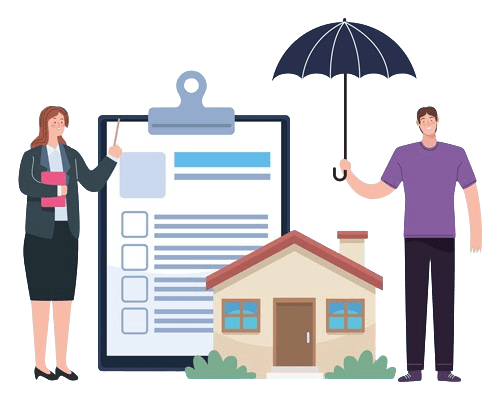
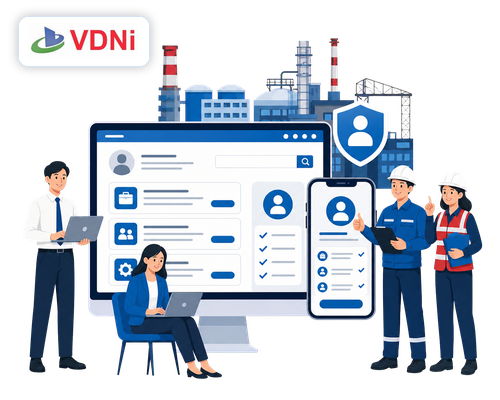
test: ganti header & carousel

diff --git a/public/user/css/style.css b/public/user/css/style.css
@@ -360,6 +360,67 @@
 .bg-breadcrumb .breadcrumb .breadcrumb-item a {
     color: var(--bs-white);
 }
+
+.page-hero-banner,
+.help-page-banner {
+    position: relative;
+    overflow: hidden;
+}
+
+.page-hero-banner::before,
+.help-page-banner::before {
+    content: "";
+    position: absolute;
+    inset: 0;
+    background:
+        radial-gradient(circle at top left, rgba(255, 255, 255, 0.12), transparent 32%),
+        linear-gradient(135deg, rgba(7, 45, 75, 0.2), rgba(11, 118, 183, 0.06));
+    pointer-events: none;
+}
+
+.page-hero,
+.help-page-hero {
+    position: relative;
+    z-index: 1;
+    max-width: 860px;
+}
+
+.page-hero__eyebrow,
+.help-page-hero__eyebrow {
+    display: inline-flex;
+    align-items: center;
+    gap: 0.55rem;
+    padding: 0.55rem 0.95rem;
+    border: 1px solid rgba(255, 255, 255, 0.22);
+    border-radius: 999px;
+    background: rgba(255, 255, 255, 0.12);
+    color: #fff;
+    font-size: 0.8rem;
+    font-weight: 700;
+    letter-spacing: 0.08em;
+    text-transform: uppercase;
+}
+
+.page-hero__text,
+.help-page-hero__text {
+    max-width: 62ch;
+    margin: 0 auto;
+    color: rgba(255, 255, 255, 0.88);
+    font-size: 1rem;
+    line-height: 1.8;
+}
+
+@media (max-width: 767.98px) {
+    .page-hero__eyebrow,
+    .help-page-hero__eyebrow {
+        font-size: 0.72rem;
+    }
+
+    .page-hero__text,
+    .help-page-hero__text {
+        font-size: 0.94rem;
+    }
+}
 /*** Single Page Hero Header End ***/
 
 

diff --git a/resources/views/user/lowongan-kerja/index.blade.php b/resources/views/user/lowongan-kerja/index.blade.php
@@ -7,9 +7,16 @@
 @endpush
 
 <!-- Header Start -->
-<div class="container-fluid bg-breadcrumb">
-    <div class="container text-center py-5" style="max-width: 900px;">
-        <h4 class="text-white display-4 mb-4 wow fadeInDown" data-wow-delay="0.1s">Lowongan Kerja</h4>
+<div class="container-fluid bg-breadcrumb page-hero-banner">
+    <div class="container page-hero text-center py-5">
+        <span class="page-hero__eyebrow wow fadeInDown" data-wow-delay="0.1s">
+            <i class="fas fa-briefcase"></i>
+            Lowongan Kerja
+        </span>
+        <h1 class="text-white display-4 mb-3 wow fadeInDown" data-wow-delay="0.2s">Temukan peluang karier resmi bersama PT VDNI</h1>
+        <p class="page-hero__text wow fadeInUp" data-wow-delay="0.3s">
+            Lihat posisi yang tersedia, perhatikan periode pendaftaran, dan ajukan lamaran hanya melalui sistem rekrutmen V-HIRE.
+        </p>
     </div>
 </div>
 <!-- Header End -->

diff --git a/resources/views/user/pengumuman/index.blade.php b/resources/views/user/pengumuman/index.blade.php
@@ -3,9 +3,16 @@
 @section('content')
 <!-- Carousel Start -->
 <!-- Header Start -->
-<div class="container-fluid bg-breadcrumb">
-    <div class="container text-center py-5" style="max-width: 900px;">
-        <h4 class="text-white display-4 mb-4 wow fadeInDown" data-wow-delay="0.1s">Pengumuman</h4>
+<div class="container-fluid bg-breadcrumb page-hero-banner">
+    <div class="container page-hero text-center py-5">
+        <span class="page-hero__eyebrow wow fadeInDown" data-wow-delay="0.1s">
+            <i class="fas fa-bullhorn"></i>
+            Pengumuman
+        </span>
+        <h1 class="text-white display-4 mb-3 wow fadeInDown" data-wow-delay="0.2s">Informasi resmi rekrutmen V-HIRE</h1>
+        <p class="page-hero__text wow fadeInUp" data-wow-delay="0.3s">
+            Pantau pembaruan lowongan, informasi seleksi, dan pengumuman penting langsung dari kanal resmi PT VDNI.
+        </p>
     </div>
 </div>
 <!-- Header End -->

diff --git a/resources/views/beranda.blade.php b/resources/views/beranda.blade.php
@@ -375,13 +375,13 @@ $activeStep = $completedStep < $maxStep ? $completedStep + 1 : $maxStep;
     <div class="container-fluid service py-2">
         <!-- Tentang Start -->
         @php
-            $formatRibuanPlus = function ($count) {
-                $count = (int) $count;
+        $formatRibuanPlus = function ($count) {
+        $count = (int) $count;
 
-                return $count >= 1000
-                    ? intdiv($count, 1000) . 'ribu+'
-                    : number_format($count, 0, ',', '.');
-            };
+        return $count >= 1000
+        ? intdiv($count, 1000) . 'ribu+'
+        : number_format($count, 0, ',', '.');
+        };
         @endphp
 
         <div class="container-fluid bg-light about pt-5 pb-5">